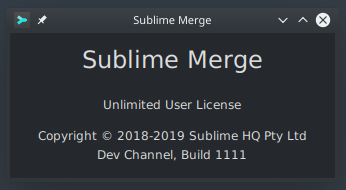
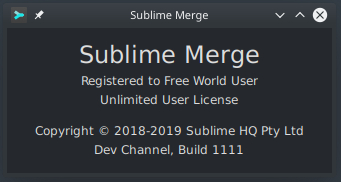
Update README.md

diff --git a/sublime.md b/sublime.md
@@ -30,18 +30,6 @@ Instead of "Free World User" you can enter your name or any text.
 
 ![BIG](images/3207.jpg)
 
-
-**Automatic re-registration is triggered by the "About Sublime Merge" in the program menu.**
-
-```
-If the registration is valid, "Preferences -> Theme" the Dark mode
-working, if not, then you need to call the window "About Sublime Merge"
-from program menu and the registration status of the program will 
-be resumed. 
-
-Enough to do one time.
-```
-
 ![BIG](images/1111.jpg)
 
 ---
@@ -115,12 +103,15 @@ exit 0
 
 #### [Fourth step:]()
 
-- Start Sublime Text 3 program
+- Start Sublime Text/Merge program
 - Paste License key in registration window - **"Help"->"Enter License"**
+  **One license key for Sublime Text/Merge**
+- Instead of **"Free World User"** you can enter your name or any text
+- Press the button **"Use License"**
 
 ---
 
-Restart Sublime Text & appreciate the magic ^^
+Restart Sublime Text/Merge & appreciate the magic ^^
 
 ## [Discussion and thanks here](https://gist.github.com/cipherhater/4e75d4e4551db171de03e9618456a7ea)
 

diff --git a/README.md b/README.md
@@ -7,10 +7,7 @@
 	</b></p>
 </center>
 
-#### Sublime Text 3 license key required: YES (License key in patch, you can enter your name!)
-
-#### Sublime Merge license key required: NO
-
+#### Sublime Text/Merge license key required: YES (License key in patch, you can enter your name!)
 
 ![BIG](images/big.jpg)
 
